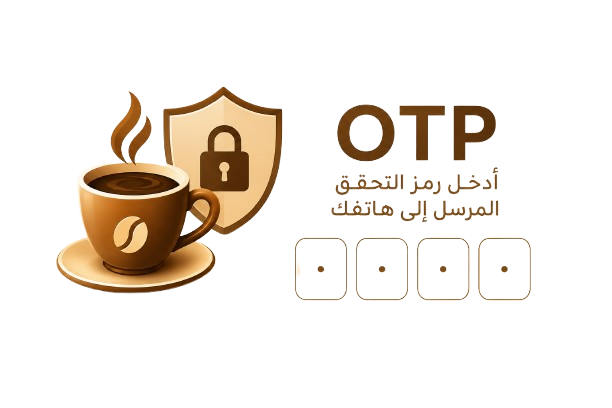
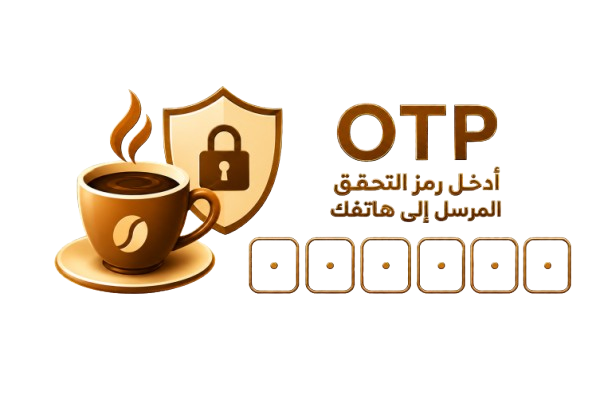
Update OTP input length to 6 digits and adjust padding and border radius

diff --git a/lib/features/auth/presentation/widgets/otp_code_row.dart b/lib/features/auth/presentation/widgets/otp_code_row.dart
@@ -6,7 +6,7 @@ import 'package:flutter_screenutil/flutter_screenutil.dart';
 import '../../../../core/utils/app_colors.dart';
 
 class OtpCodeRow extends StatefulWidget {
-  const OtpCodeRow({super.key, this.length = 4, required this.onChanged});
+  const OtpCodeRow({super.key, this.length = 6, required this.onChanged});
 
   final int length;
   final ValueChanged<String> onChanged;
@@ -56,7 +56,7 @@ class _OtpCodeRowState extends State<OtpCodeRow> {
     return Directionality(
       textDirection: TextDirection.ltr,
       child: Padding(
-        padding: 20.paddingHorizontal,
+        padding: 0.paddingHorizontal,
         child: Row(
           mainAxisAlignment: MainAxisAlignment.spaceBetween,
           children: List.generate(widget.length, (index) {
@@ -85,15 +85,15 @@ class _OtpCodeRowState extends State<OtpCodeRow> {
                   contentPadding: EdgeInsets.zero,
                   fillColor: fillColor,
                   border: OutlineInputBorder(
-                    borderRadius: BorderRadius.circular(16.r),
+                    borderRadius: BorderRadius.circular(12.r),
                     borderSide: const BorderSide(color: borderColor),
                   ),
                   enabledBorder: OutlineInputBorder(
-                    borderRadius: BorderRadius.circular(16.r),
+                    borderRadius: BorderRadius.circular(12.r),
                     borderSide: const BorderSide(color: borderColor),
                   ),
                   focusedBorder: OutlineInputBorder(
-                    borderRadius: BorderRadius.circular(16.r),
+                    borderRadius: BorderRadius.circular(12.r),
                     borderSide: BorderSide(
                         color: AppColors.primaryColor.themeColor, width: 1.2),
                   ),

diff --git a/lib/features/auth/presentation/otp_screen.dart b/lib/features/auth/presentation/otp_screen.dart
@@ -30,7 +30,7 @@ class _OtpScreenState extends State<OtpScreen> {
   bool _loading = false;
 
   Future<void> _verify() async {
-    if (_code.length != 4) {
+    if (_code.length != 6) {
       AppOverlay.showError(LocaleKeys.otp_invalidCode.tr());
       return;
     }
@@ -78,7 +78,7 @@ class _OtpScreenState extends State<OtpScreen> {
     // Auto-submit the moment the 4th digit lands — no need to wait for a
     // manual tap on "تأكيد". `_loading` guard stops a stray re-trigger (e.g.
     // editing a digit again) from firing a second request mid-flight.
-    if (code.length == 4 && !_loading) {
+    if (code.length == 6 && !_loading) {
       FocusScope.of(context).unfocus();
       _verify();
     }
